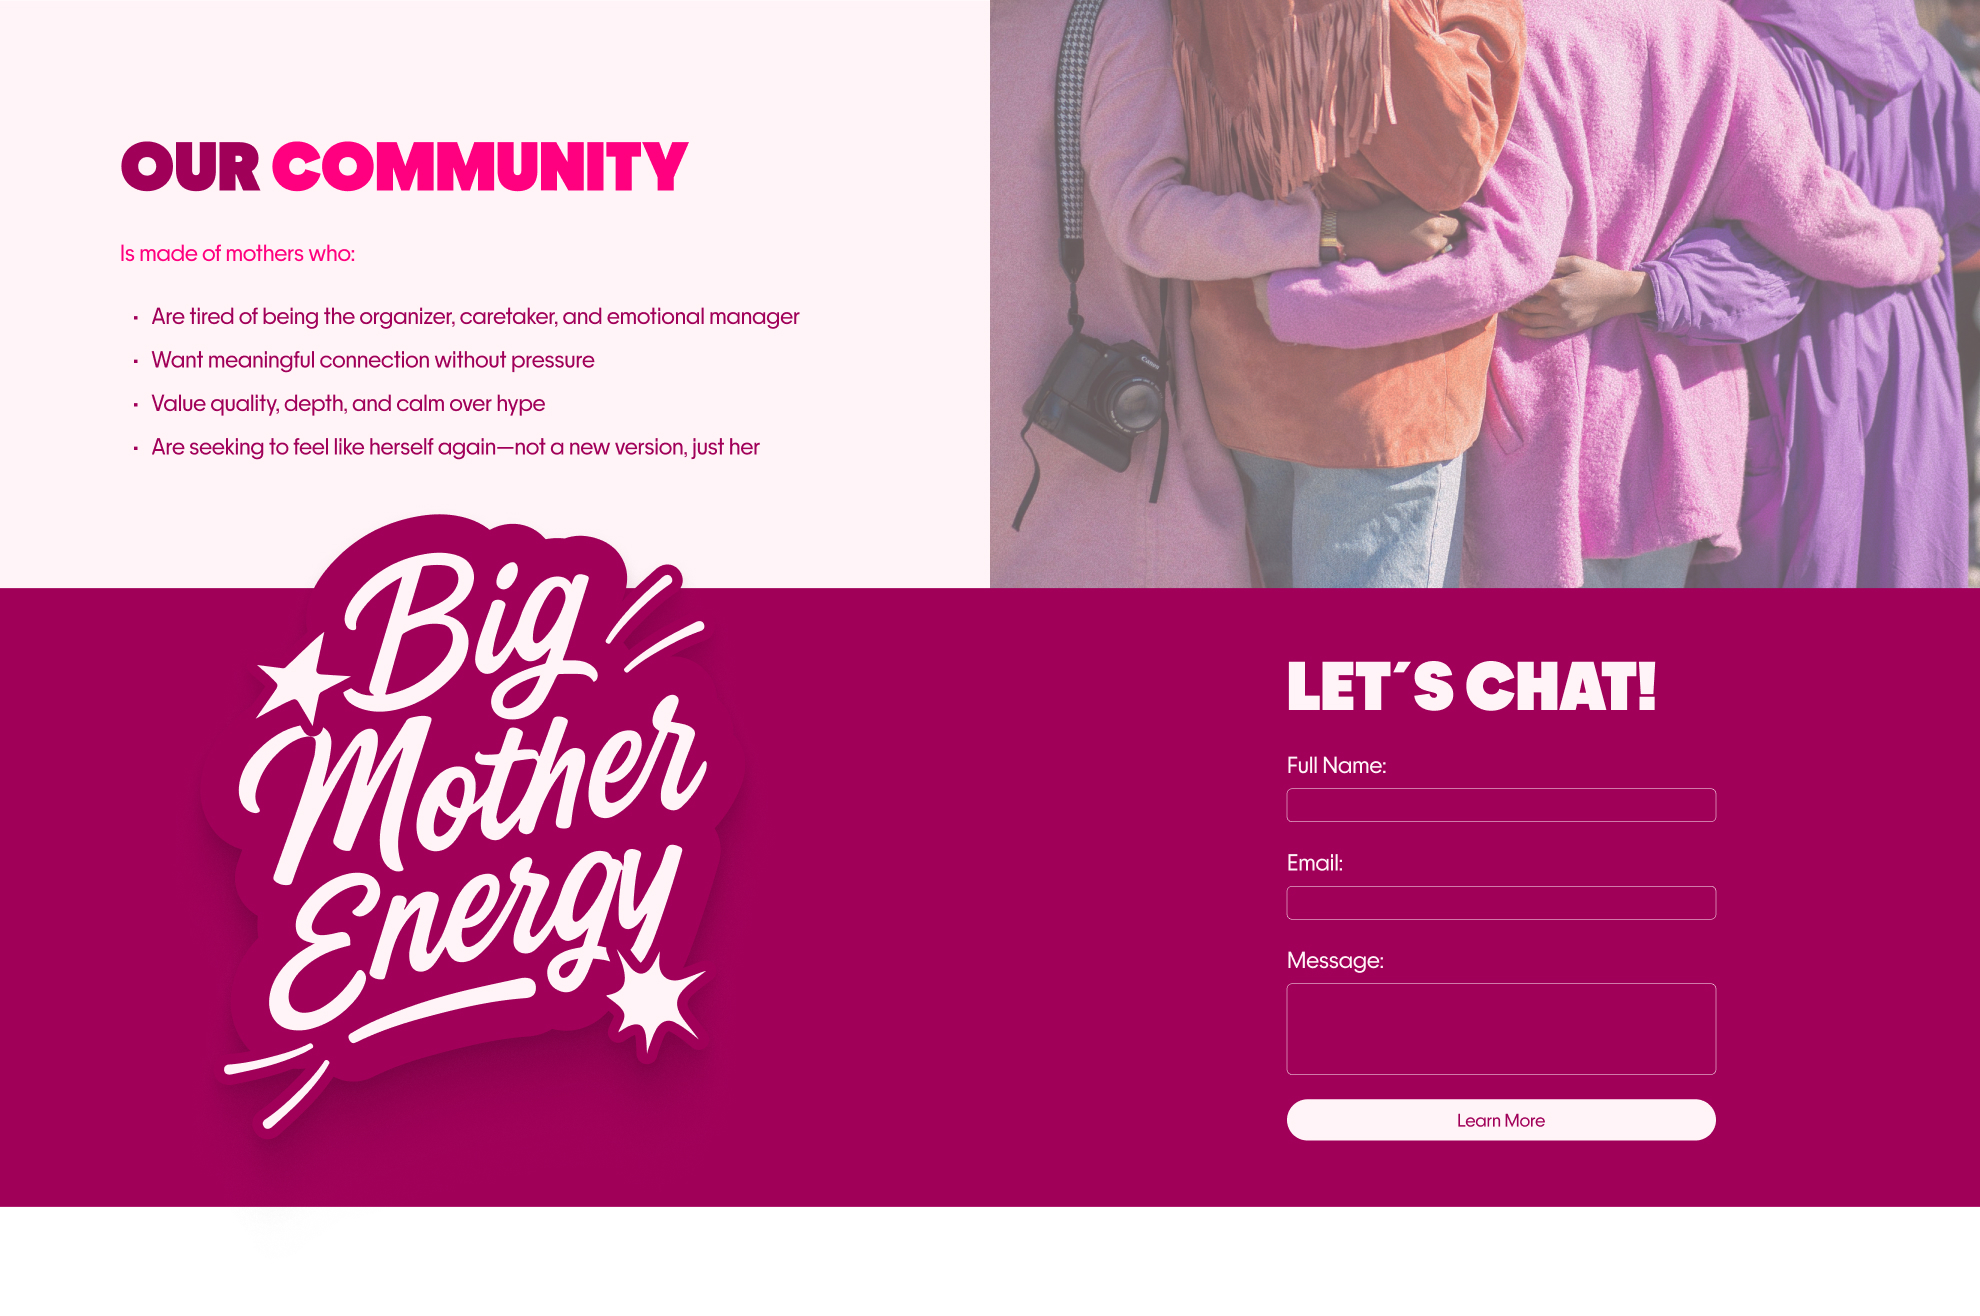
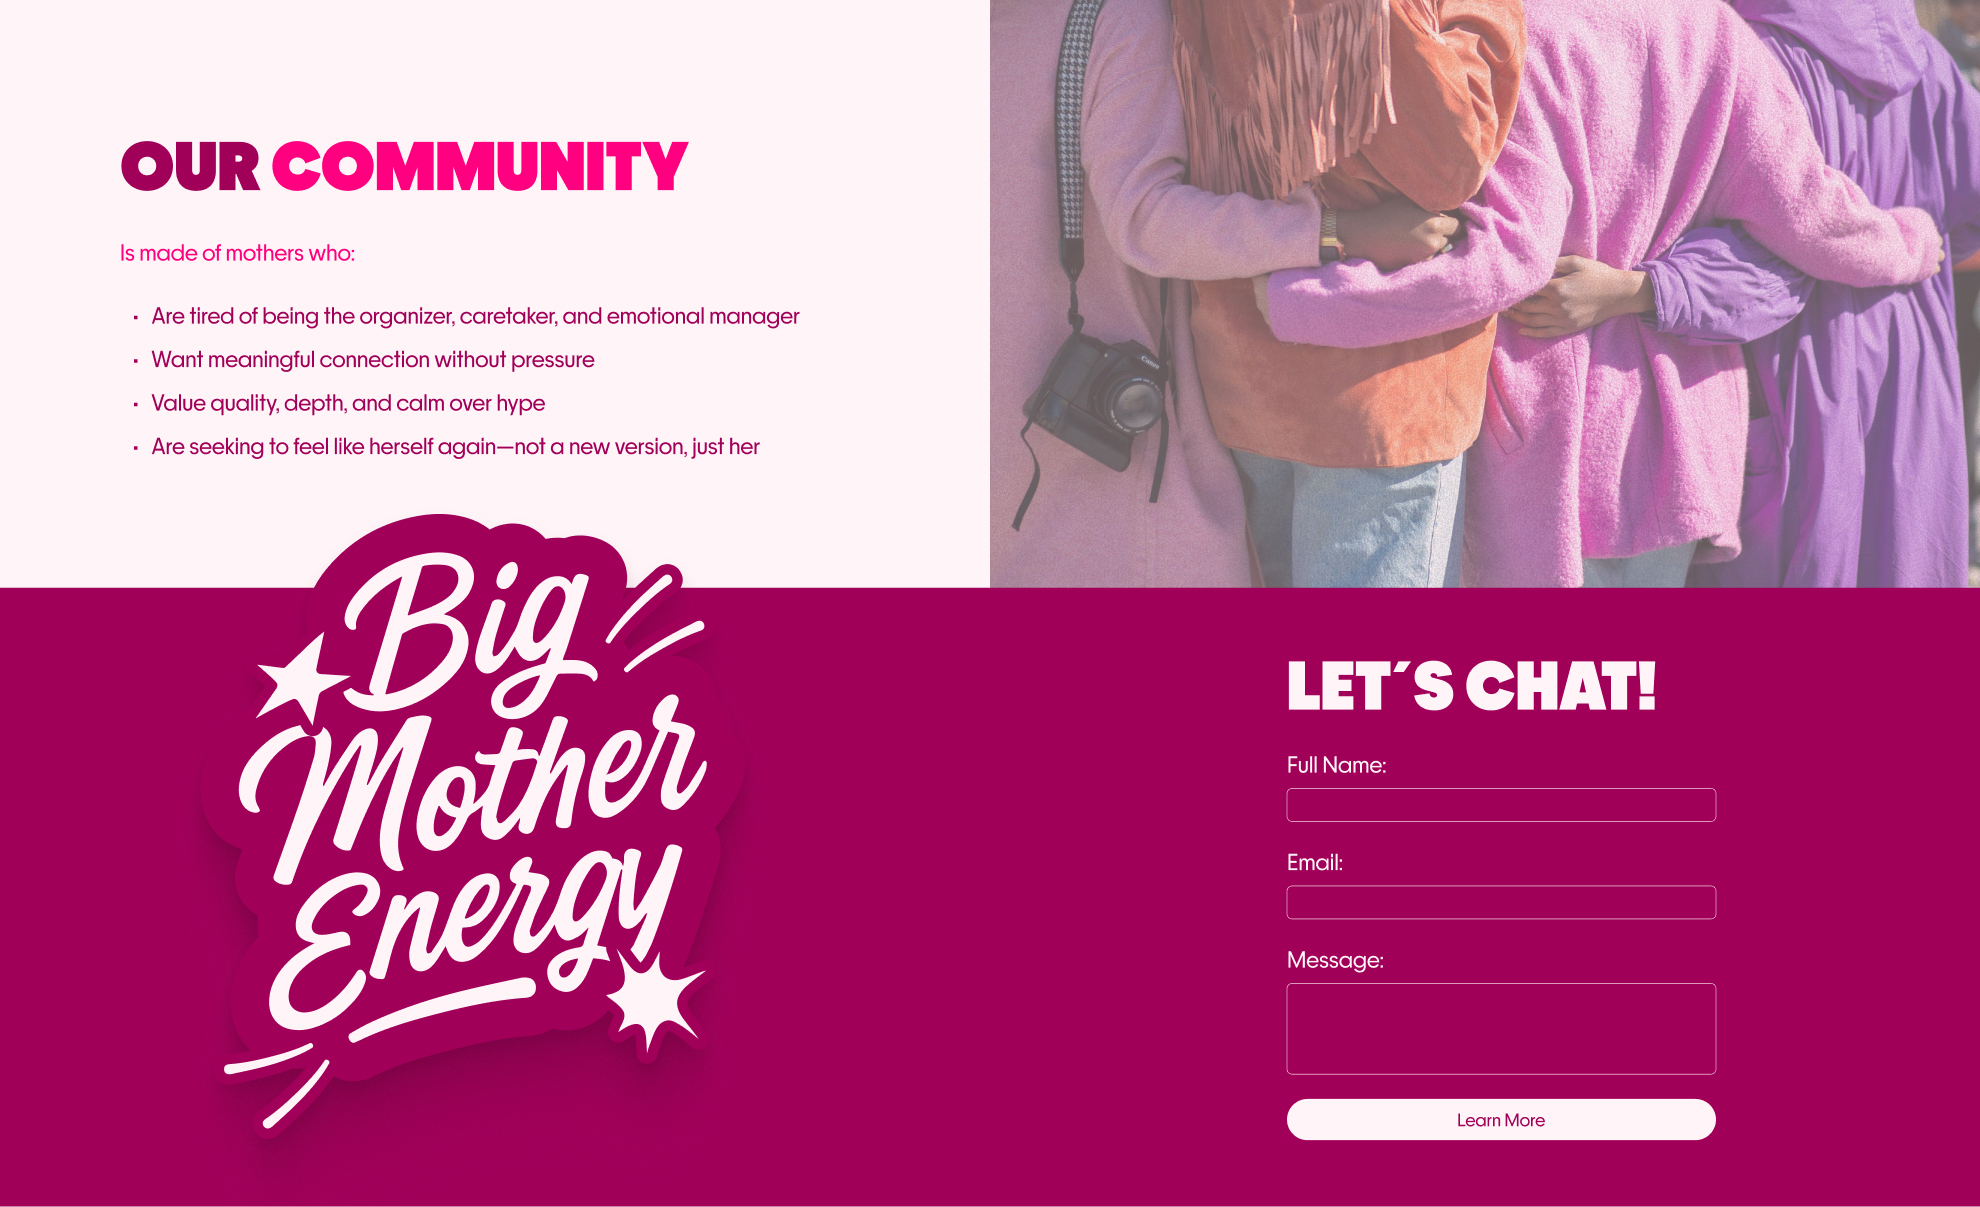
updates desde UW

Changed region(s): [[0.0, 0.0, 1.0, 1.0]]

diff --git a/work/product/index.html b/work/product/index.html
@@ -245,9 +245,14 @@
       .product-meta-item { display:flex; flex-direction:column; gap:10px; padding:0 32px; border-left:1px solid #DADADA; }
       .product-meta-item:first-child { border-left:none; padding-left:0; }
       .product-meta-label { display:flex; align-items:center; gap:8px; font-family:'PP Telegraf',sans-serif; font-weight:400; letter-spacing:0.3em; text-transform:uppercase; color:#3A3A39; font-size:var(--fv-caps); }
-      .product-meta-icon { width:16px; height:16px; border-radius:4px; background:#D9D9D9; flex-shrink:0; }
+      .product-meta-icon { width:20px; height:20px; flex-shrink:0; background:no-repeat center/contain; }
+      .product-meta-item:nth-child(1) .product-meta-icon { background-image:url(../../assets/img/icon-role.svg); }
+      .product-meta-item:nth-child(2) .product-meta-icon { background-image:url(../../assets/img/icon-timeline.svg); }
+      .product-meta-item:nth-child(3) .product-meta-icon { background-image:url(../../assets/img/icon-services.svg); }
+      .product-meta-item:nth-child(4) .product-meta-icon { background-image:url(../../assets/img/icon-tool.svg); }
       .product-meta-value { font-family:'PP Telegraf',sans-serif; font-weight:400; color:#3A3A39; font-size:var(--fv-body); margin-left:24px; }
       body.ui-ux .tt-section.work-content.product-gallery { padding-top:85px !important; padding-bottom:100px !important; }
+      body.ui-ux .works-carousel-section { padding-top:300px !important; }
       .product-details { text-align:left !important; }
       .product-details h5 { font-weight:800 !important; max-width:500px !important; text-transform:uppercase !important; }
       .product-details p.desc { font-size:var(--fv-caps, 14px) !important; font-weight:400 !important; line-height:22px !important; letter-spacing:0.02em !important; text-align:left !important; margin-left:0 !important; justify-content:flex-start !important; max-width:500px !important; }
@@ -466,10 +471,10 @@
                            <img src="content/product-perry-dark.jpg" alt="Join Perry" class="product-shot-dark" />
                         </div>
                         <div class="product-meta mob-no">
-                           <div class="product-meta-item"><div class="product-meta-label"><span class="product-meta-icon"></span>ROLE</div><div class="product-meta-value">Lead Product Designer</div></div>
-                           <div class="product-meta-item"><div class="product-meta-label"><span class="product-meta-icon"></span>TIMELINE</div><div class="product-meta-value">8 Weeks</div></div>
+                           <div class="product-meta-item"><div class="product-meta-label"><span class="product-meta-icon"></span>ROLE</div><div class="product-meta-value">Product Designer</div></div>
+                           <div class="product-meta-item"><div class="product-meta-label"><span class="product-meta-icon"></span>TIMELINE</div><div class="product-meta-value">16 Weeks</div></div>
                            <div class="product-meta-item"><div class="product-meta-label"><span class="product-meta-icon"></span>SERVICES</div><div class="product-meta-value">UI-UX / Branding</div></div>
-                           <div class="product-meta-item"><div class="product-meta-label"><span class="product-meta-icon"></span>TOOLS</div><div class="product-meta-value">Figma / Ilustrator</div></div>
+                           <div class="product-meta-item"><div class="product-meta-label"><span class="product-meta-icon"></span>TOOLS</div><div class="product-meta-value">Figma / Photoshop</div></div>
                         </div>
                      </div>
                   </div>
@@ -508,10 +513,10 @@
                            <img src="content/product-inos-dark.jpg" alt="iNOS Device" class="product-shot-dark" />
                         </div>
                         <div class="product-meta mob-no">
-                           <div class="product-meta-item"><div class="product-meta-label"><span class="product-meta-icon"></span>ROLE</div><div class="product-meta-value">Lead Product Designer</div></div>
-                           <div class="product-meta-item"><div class="product-meta-label"><span class="product-meta-icon"></span>TIMELINE</div><div class="product-meta-value">8 Weeks</div></div>
-                           <div class="product-meta-item"><div class="product-meta-label"><span class="product-meta-icon"></span>SERVICES</div><div class="product-meta-value">UI-UX / Branding</div></div>
-                           <div class="product-meta-item"><div class="product-meta-label"><span class="product-meta-icon"></span>TOOLS</div><div class="product-meta-value">Figma / Ilustrator</div></div>
+                           <div class="product-meta-item"><div class="product-meta-label"><span class="product-meta-icon"></span>ROLE</div><div class="product-meta-value">Product Designer</div></div>
+                           <div class="product-meta-item"><div class="product-meta-label"><span class="product-meta-icon"></span>TIMELINE</div><div class="product-meta-value">4 Weeks</div></div>
+                           <div class="product-meta-item"><div class="product-meta-label"><span class="product-meta-icon"></span>SERVICES</div><div class="product-meta-value">UI-UX</div></div>
+                           <div class="product-meta-item"><div class="product-meta-label"><span class="product-meta-icon"></span>TOOLS</div><div class="product-meta-value">Figma</div></div>
                         </div>
                      </div>
                   </div>
@@ -530,9 +535,9 @@
                         </div>
                         <div class="product-meta mob-no">
                            <div class="product-meta-item"><div class="product-meta-label"><span class="product-meta-icon"></span>ROLE</div><div class="product-meta-value">Lead Product Designer</div></div>
-                           <div class="product-meta-item"><div class="product-meta-label"><span class="product-meta-icon"></span>TIMELINE</div><div class="product-meta-value">8 Weeks</div></div>
+                           <div class="product-meta-item"><div class="product-meta-label"><span class="product-meta-icon"></span>TIMELINE</div><div class="product-meta-value">18 Weeks</div></div>
                            <div class="product-meta-item"><div class="product-meta-label"><span class="product-meta-icon"></span>SERVICES</div><div class="product-meta-value">UI-UX / Branding</div></div>
-                           <div class="product-meta-item"><div class="product-meta-label"><span class="product-meta-icon"></span>TOOLS</div><div class="product-meta-value">Figma / Ilustrator</div></div>
+                           <div class="product-meta-item"><div class="product-meta-label"><span class="product-meta-icon"></span>TOOLS</div><div class="product-meta-value">Figma</div></div>
                         </div>
                      </div>
                   </div>
@@ -550,8 +555,8 @@
                            <img src="content/product-highfive-dark.jpg" alt="Highfive" class="product-shot-dark" />
                         </div>
                         <div class="product-meta mob-no">
-                           <div class="product-meta-item"><div class="product-meta-label"><span class="product-meta-icon"></span>ROLE</div><div class="product-meta-value">Lead Product Designer</div></div>
-                           <div class="product-meta-item"><div class="product-meta-label"><span class="product-meta-icon"></span>TIMELINE</div><div class="product-meta-value">8 Weeks</div></div>
+                           <div class="product-meta-item"><div class="product-meta-label"><span class="product-meta-icon"></span>ROLE</div><div class="product-meta-value">Product Designer</div></div>
+                           <div class="product-meta-item"><div class="product-meta-label"><span class="product-meta-icon"></span>TIMELINE</div><div class="product-meta-value">24 Weeks</div></div>
                            <div class="product-meta-item"><div class="product-meta-label"><span class="product-meta-icon"></span>SERVICES</div><div class="product-meta-value">UI-UX / Branding</div></div>
                            <div class="product-meta-item"><div class="product-meta-label"><span class="product-meta-icon"></span>TOOLS</div><div class="product-meta-value">Figma / Ilustrator</div></div>
                         </div>

diff --git a/work/web/index.html b/work/web/index.html
@@ -127,9 +127,14 @@
       .product-meta-item { display:flex; flex-direction:column; gap:10px; padding:0 32px; border-left:1px solid #DADADA; }
       .product-meta-item:first-child { border-left:none; padding-left:0; }
       .product-meta-label { display:flex; align-items:center; gap:8px; font-family:'PP Telegraf',sans-serif; font-weight:400; letter-spacing:0.3em; text-transform:uppercase; color:#3A3A39; font-size:var(--fv-caps); }
-      .product-meta-icon { width:16px; height:16px; border-radius:4px; background:#D9D9D9; flex-shrink:0; }
+      .product-meta-icon { width:20px; height:20px; flex-shrink:0; background:no-repeat center/contain; }
+      .product-meta-item:nth-child(1) .product-meta-icon { background-image:url(../../assets/img/icon-role.svg); }
+      .product-meta-item:nth-child(2) .product-meta-icon { background-image:url(../../assets/img/icon-timeline.svg); }
+      .product-meta-item:nth-child(3) .product-meta-icon { background-image:url(../../assets/img/icon-services.svg); }
+      .product-meta-item:nth-child(4) .product-meta-icon { background-image:url(../../assets/img/icon-tool.svg); }
       .product-meta-value { font-family:'PP Telegraf',sans-serif; font-weight:400; color:#3A3A39; font-size:var(--fv-body); margin-left:24px; }
       body.web .tt-section.work-content.product-gallery { padding-top:85px !important; padding-bottom:100px !important; }
+      body.web .works-carousel-section { padding-top:300px !important; }
       .product-details { text-align:left !important; }
       .product-details h5 { font-weight:800 !important; max-width:500px !important; text-transform:uppercase !important; }
       .product-details p.desc { font-size:var(--fv-caps, 14px) !important; font-weight:400 !important; line-height:22px !important; letter-spacing:0.02em !important; text-align:left !important; margin-left:0 !important; justify-content:flex-start !important; max-width:500px !important; }

diff --git a/assets/css/work.css b/assets/css/work.css
@@ -499,7 +499,7 @@ body.tt-boxed.work.ui-ux footer {
 body.tt-boxed.work.ui-ux .tt-section:last-child {
   margin-top: 65px;
 }
-body.tt-boxed.work.ui-ux .tt-wrap {
+body.tt-boxed.work.ui-ux .tt-wrap.center {
   row-gap: 160px;
 }
 body.tt-boxed.work.ui-ux .tt-wrap .tt-row {
@@ -595,7 +595,7 @@ body.tt-boxed.work.ui-ux .tt-wrap .talk {
 body.tt-boxed.work.web .tt-section:last-child {
   margin-top: -74px;
 }
-body.tt-boxed.work.web .tt-wrap {
+body.tt-boxed.work.web .tt-wrap.center {
   row-gap: 160px;
 }
 body.tt-boxed.work.web .tt-wrap .tt-row {
